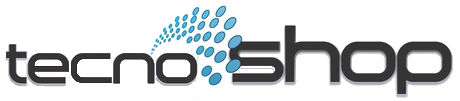
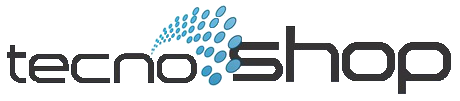
immagine header modificata- database modificato e prodotti aggiunti (rivedere foglietto e configurare per svn)

diff --git a/albertoCollu/mvc/model/Depot.php b/albertoCollu/mvc/model/Depot.php
@@ -70,8 +70,6 @@ class Depot {
                 . $depot->getNItems() . "', '"
                 . $depot->getPrice() . "');";
 
-        var_dump($query);
-
         if ($db->getRowsAfterQuery($query) == 1) {
             return TRUE;
         } else {
